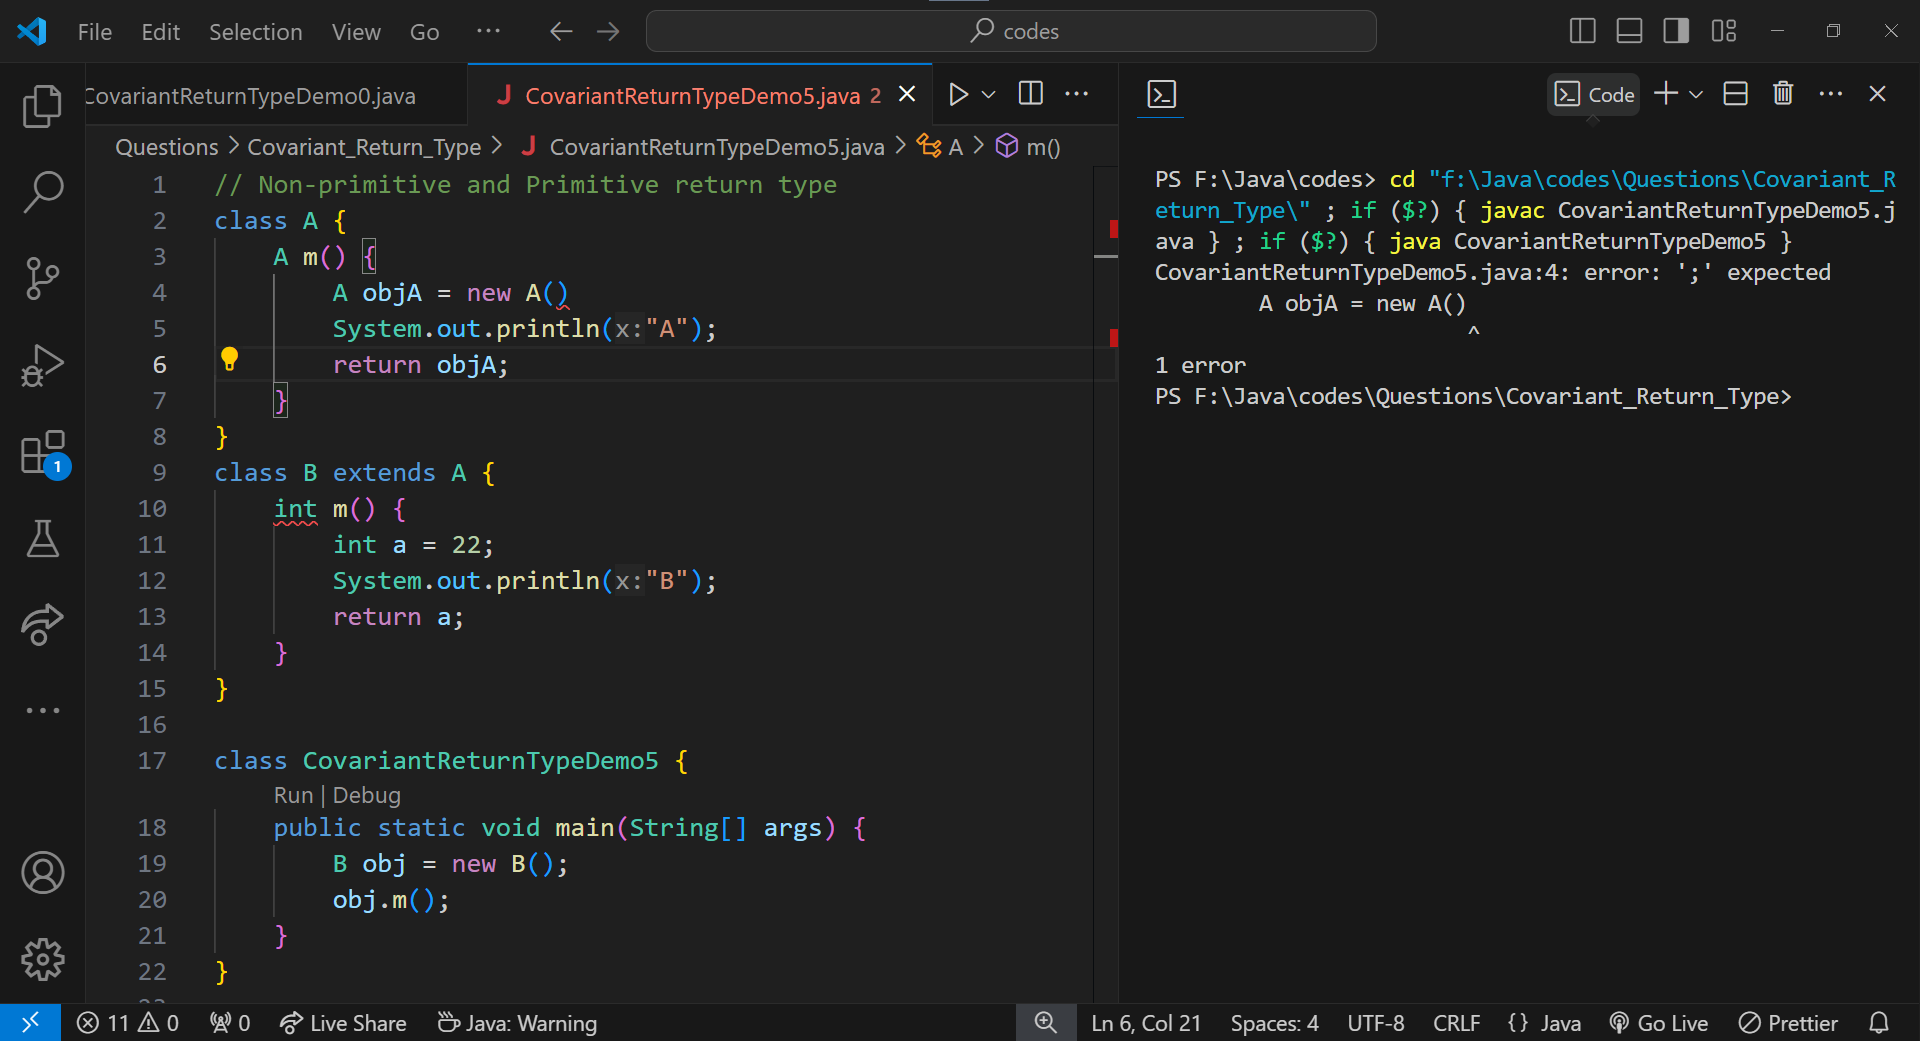
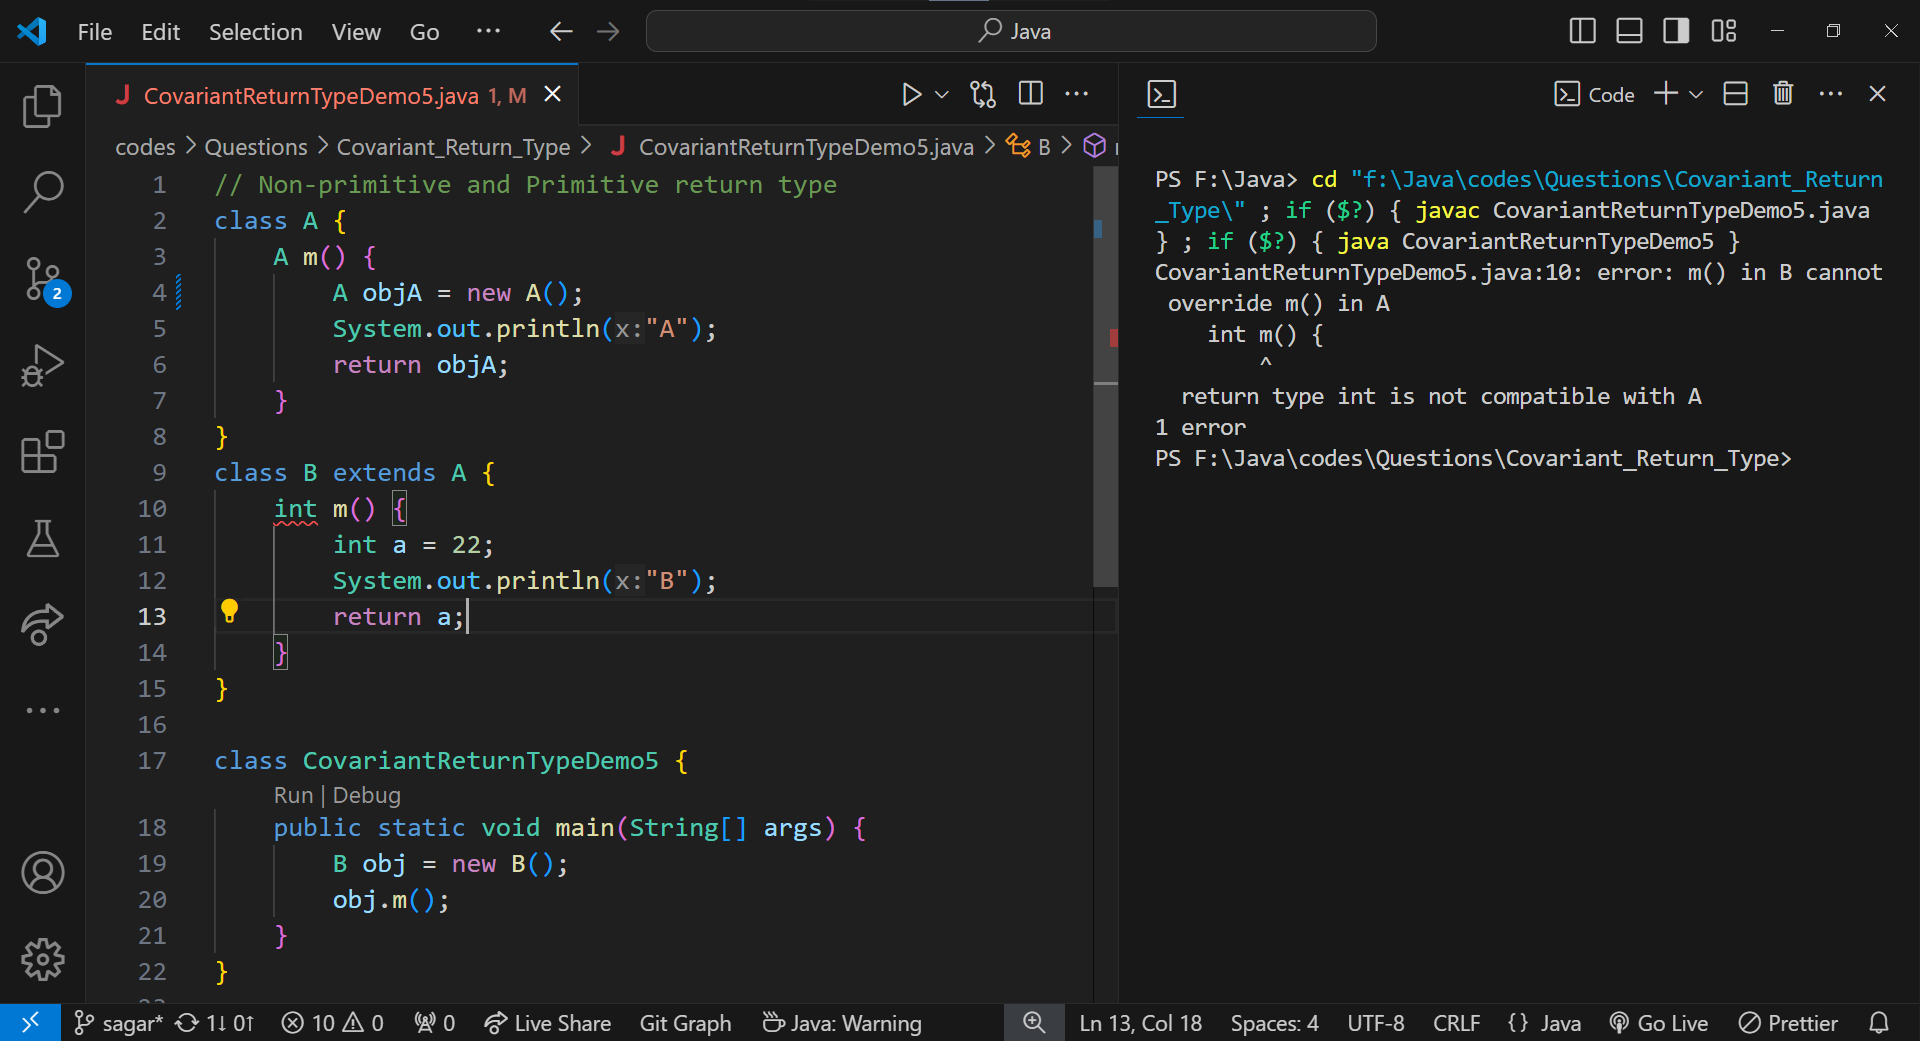
Created some changes

diff --git a/codes/Questions/Covariant_Return_Type/CovariantReturnTypeDemo5.java b/codes/Questions/Covariant_Return_Type/CovariantReturnTypeDemo5.java
@@ -1,7 +1,7 @@
 // Non-primitive and Primitive return type
 class A {
     A m() {
-        A objA = new A()
+        A objA = new A();
         System.out.println("A");
         return objA;
     }
